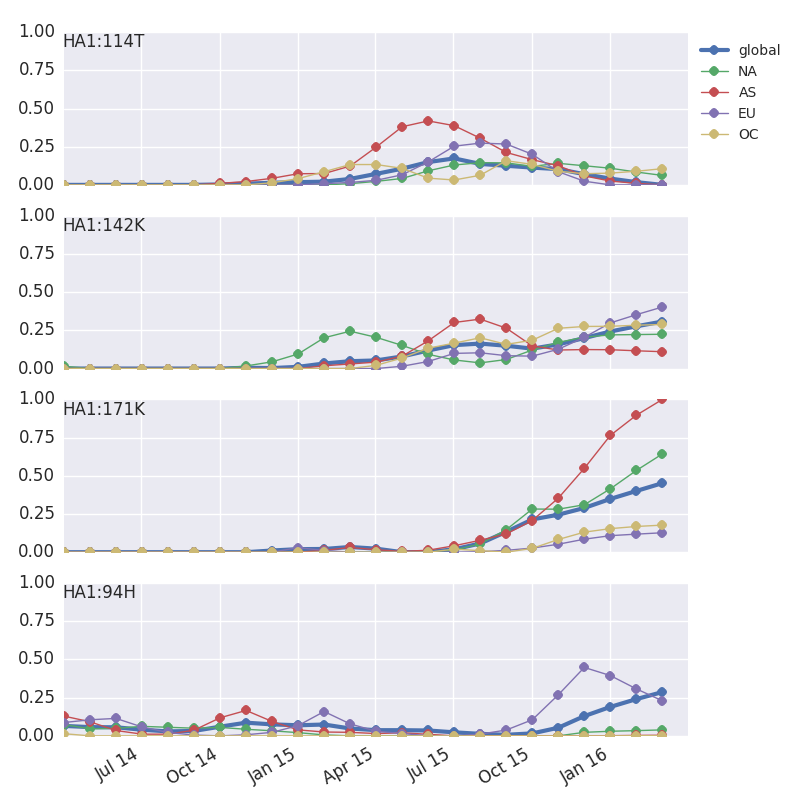
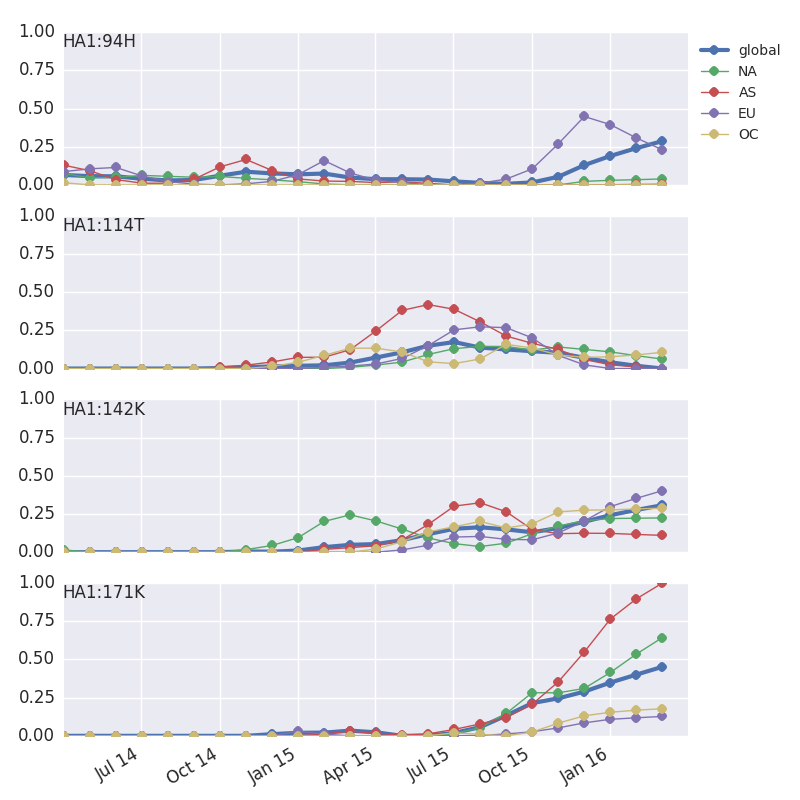
Reorder H3N2 mutations.

diff --git a/auspice/reports/plot_clades.py b/auspice/reports/plot_clades.py
@@ -17,7 +17,7 @@ virus = 'H3N2'
 if virus=='H3N2': ########## H3N2
     freqs = json.load(open('../data/H3N2_2y_frequencies.json'))
     clades = ['3c2.a', '3c3.a', '3c3.b']
-    mutations = ['HA1:114T','HA1:142K','HA1:171K', 'HA1:94H']
+    mutations = ['HA1:94H', 'HA1:114T', 'HA1:142K', 'HA1:171K']
     clade_legend = {'panel':0, 'loc':3}
     mut_legend = {'panel':0, 'loc':3}
 elif virus=='H1N1pdm': ########## H1N1pdm
